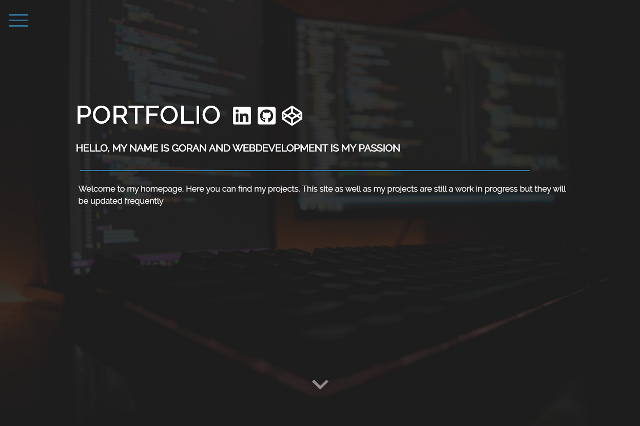
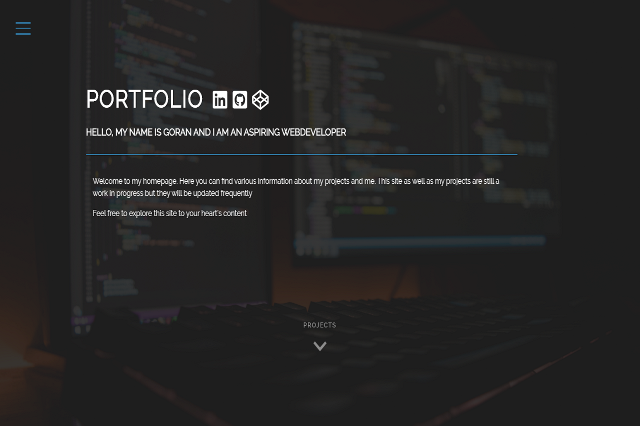
optimization, cleanup and several small changes

diff --git a/src/assets/scss/title.scss b/src/assets/scss/title.scss
@@ -6,14 +6,14 @@
   position: relative;
   display: inline-block;
   z-index: 100;
-  height: 100&;
+  height: 100%;
   width: 100%;
   overflow: hidden;
   box-sizing: border-box;
   @include content_page();
 
-  @include padding(10rem, 10rem, 1rem, 10rem);
-  @include margin(4rem, 0, 0rem, 0);
+  @include padding(10rem, 10rem, 0, 10rem);
+  @include margin(0rem, 0, 0rem, 0);
   text-shadow: 1px 0 2px black;
 
   @include responsive_mobile() {
@@ -22,7 +22,7 @@
   }
 
   @include responsive_tablet() {
-    @include margin(6rem, 0, 0rem, 0);
+    @include margin(0rem, 0, 0rem, 0);
     @include padding(8rem, 7rem, 1rem, 7rem);
   }
 
@@ -33,7 +33,7 @@
     /* letter-spacing: 1px; */
     position: relative;
     align-items: center;
-    @include padding(0rem, 1rem, 2rem, 2.5rem);
+    @include padding(0rem, 1rem, 2rem, 3rem);
     animation: coming 1s;
     animation-timing-function: cubic-bezier(0.15, 0.47, 0.42, 0.95);
 
@@ -99,12 +99,12 @@
   p {
     animation: fadeIn 3s;
     animation-timing-function: cubic-bezier(0.92, 0.01, 0.98, 0.78);
-    @include padding(0.5rem, 1rem, 0.5rem, 2.8rem);
+    @include padding(0.5rem, 2rem, 0.5rem, 4rem);
     @include responsive_desktop() {
-      @include padding(0.5rem, 10rem, 0.5rem, 2.8rem);
+      @include padding(0.5rem, 10rem, 0.5rem, 4rem);
     }
     @include responsive_desktop_large() {
-      @include padding(0.5rem, 10rem, 0.5rem, 2.8rem);
+      @include padding(0.5rem, 20rem, 0.5rem, 4rem);
     }
   }
 

diff --git a/src/components/Main/Title.jsx b/src/components/Main/Title.jsx
@@ -25,9 +25,11 @@ const Home = () => {
   return (
     <motion.div id="home" initial="out" animate="in" exit="out" variants={pageTransition}>
       <div className="title" onClick={() => (navOpen ? setNavOpen(false) : navOpen === false)}>
-        <h1 className="lg-heading">
-          <FormattedMessage id="title.title" defaultMessage="Portfolio" />
-        </h1>
+        <a href="/">
+          <h1 className="lg-heading">
+            <FormattedMessage id="title.title" defaultMessage="Portfolio" />
+          </h1>
+        </a>
         <div className="icons">
           <a href="/" target="_blank" rel="noopener noreferrer">
             <FontAwesomeIcon icon={faLinkedin} />
@@ -47,7 +49,7 @@ const Home = () => {
             <FormattedMessage id="title.introduction" defaultMessage="Introduction Text" />
           </p>
           <p className="sm-heading" id="title-text-last">
-            <FormattedMessage id="title.info" defaultMessage="Click on the arrow to get to my project page" />
+            <FormattedMessage id="title.info" defaultMessage="Feel free to explore this site to your heart's content" />
           </p>
         </div>
         <Link to="/projects">

diff --git a/src/assets/scss/aboutMe.scss b/src/assets/scss/aboutMe.scss
@@ -27,23 +27,23 @@
     }
 
     @include responsive_mobile() {
-      padding: 8rem 2rem;
+      padding: 5rem 2rem;
     }
     @include responsive_tablet() {
       margin: 0 3rem;
-      padding: 8rem 2rem;
+      @include padding(8rem, 2rem, 0, 2rem);
     }
     @include responsive_desktop() {
-      margin: 3rem 4rem;
-      padding: 5rem 5rem;
+      margin: 0 4rem;
+      @include padding(8rem, 5rem, 0, 5rem);
     }
     @include responsive_ipadPro_portrait() {
-      margin: 3rem 4rem;
-      padding: 8rem 5rem;
+      margin: 0 4rem;
+      @include padding(8rem, 5rem, 0, 5rem);
     }
     @include responsive_desktop_large() {
-      margin: 3rem 7rem;
-      padding: 6rem 5rem;
+      margin: 0 7rem;
+      @include padding(8rem, 5rem, 0, 5rem);
     }
 
     .title_about {
@@ -183,15 +183,16 @@
       letter-spacing: 2px;
       text-transform: uppercase;
       padding-top: 10rem;
-      font-size: 1.5em;
+      font-size: 1.2em;
       opacity: 0.7;
+      margin-top: 6rem;
 
       a {
         text-decoration: none;
         color: color(text);
 
         h6 {
-          opacity: 0;
+          opacity: 0.7;
         }
       }
       .MuiSvgIcon-root {

diff --git a/src/assets/scss/projects.scss b/src/assets/scss/projects.scss
@@ -7,18 +7,10 @@
   @include content_page();
   /*  overflow-x: hidden; */
 
-  @include responsive_desktop() {
-    padding-top: 0.3rem;
-  }
-
-  @include responsive_ipadPro_portrait() {
-    padding-top: 0.1rem;
-  }
-
   .wrapper {
     z-index: 100;
     position: relative;
-    margin: 2rem 3rem;
+    margin: 1rem 3rem;
 
     a {
       text-decoration: none;
@@ -26,23 +18,20 @@
     }
 
     @include responsive_mobile() {
-      margin: 2rem 1rem;
+      margin: 1rem 1rem;
     }
-
     @include responsive_desktop() {
-      padding: 8rem 5rem;
-      @include padding(8rem, 3rem, 1rem, 3rem);
+      @include padding(1rem, 3rem, 0, 1rem);
     }
     @include responsive_tablet() {
-      @include padding(3rem, 0, 10rem, 0);
+      @include padding(1rem, 0, 2rem, 0);
     }
-
     @include responsive_ipadPro_portrait() {
-      margin-bottom: 30rem;
-      padding: 3rem 5rem;
+      margin-bottom: 25rem;
+      @include padding(1rem, 5rem, 0, 5rem);
     }
     @include responsive_desktop_large() {
-      padding: 5rem 5rem;
+      @include padding(3rem, 5rem, 0, 5rem);
     }
 
     .title-projects {

diff --git a/src/components/Projects.jsx b/src/components/Projects.jsx
@@ -69,9 +69,11 @@ function SimpleCollapse() {
     <div id="projects">
       <div className="wrapper" onClick={() => (navOpen ? setNavOpen(false) : navOpen === false)}>
         <div className="title-projects">
-          <h3>
-            <FormattedMessage id="projects.title" defaultMessage="Projects" />
-          </h3>
+          <a href="/projects">
+            <h3>
+              <FormattedMessage id="projects.title" defaultMessage="Projects" />
+            </h3>
+          </a>
         </div>
         <div className={classes.root}>
           <div className="grid">

diff --git a/src/assets/scss/nextSection.scss b/src/assets/scss/nextSection.scss
@@ -10,14 +10,15 @@ a {
     text-align: center;
     letter-spacing: 2px;
     text-transform: uppercase;
-    padding: 3rem 0;
-    font-size: 1.5em;
+    padding: 5rem 0;
+    font-size: 1.2em;
     opacity: 0.7;
     bottom: 0;
     left: 0;
     width: 100%;
+
     h6 {
-      opacity: 0;
+      opacity: 0.7;
     }
 
     .MuiSvgIcon-root {
@@ -39,5 +40,13 @@ a {
         opacity: 1;
       }
     }
+  }
+}
+
+a,
+.next-section {
+  margin-top: 6rem;
+  @include responsive_mobile() {
+    margin-top: 0;
   }
 }

diff --git a/src/components/Main/AboutMe.jsx b/src/components/Main/AboutMe.jsx
@@ -23,7 +23,9 @@ const AboutMe = () => {
     <motion.div id="about" initial="out" animate="in" exit="out" variants={pageTransition}>
       <div className="about-me">
         <div className="title_about">
-          <h3>About Me</h3>
+          <a href="/about">
+            <h3>About Me</h3>
+          </a>
         </div>
         <div className="content_about">
           <div className="about-1">

diff --git a/src/assets/scss/main.scss b/src/assets/scss/main.scss
@@ -24,7 +24,7 @@ html {
 body {
   margin: 0;
   padding: 0;
-  height: 100vh;
+  height: 100%;
   color: color(text);
   @include background;
   background: color(background);
